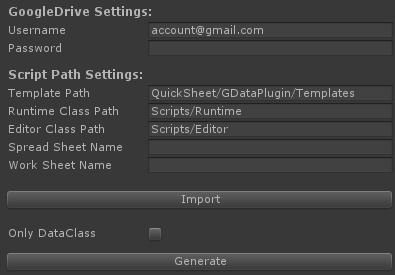
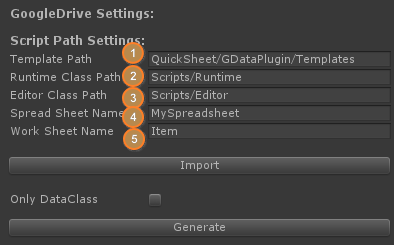
updated.

Changed region(s): [[0.0, 0.0286, 1.0, 0.7429], [0.0, 0.8, 1.0, 0.9714], [0.3655, 0.7714, 0.4264, 0.8571]]

diff --git a/_posts/2015-01-04-googlehowto.md b/_posts/2015-01-04-googlehowto.md
@@ -88,18 +88,14 @@ Select ***Google*** menu item then it creates setting file. It may be shown like
 
 ![Google New Setting File]({{ site.baseurl }}/images/google_new_setting.png)
 
-#### GoogleDrive Setting
-
-1. Speicify your google account.
-2. Sepecify your password for the account.
 
 #### Script Path Setting
 
 3. ***Template*** indicates a path where template files which are neccessary to generate script files.  In most case you don't need to change it.
-4. ***Runtime*** indicates a path where generated script files which are used on runtime will be put.
-5. ***Editor*** inidicates a path where generated script files which are used on editor mode will be put.
-6. ***Spread Sheet Name*** is what the name of the spreadsheet which is created on google drive.
-7. ***Work Sheet Name*** is one of the worksheet name of the spreadwheet you want to get data from.
+4. ***Runtime*** indicates a path where generated script files which are used on runtime will be put. If you already specified it in the *'GoogleDataSettings.asset'* file, that path will be automatically shown on.
+5. ***Editor*** inidicates a path where generated script files which are used on editor mode will be put. If you already specified it in the *'GoogleDataSettings.asset'* file, that path will be automatically shown on.
+6. ***Spread Sheet Name*** is what the name of the spreadsheet which is created on google drive. Note that the name is case sensitive.
+7. ***Work Sheet Name*** is one of the worksheet name of the spreadwheet you want to get data from. Note that the name is case sensitive.
 
 After doing done with all path setting, press ***Import*** button then it shows all column headers of the page. That are neccessary to let you set the type of the each cells.
 
